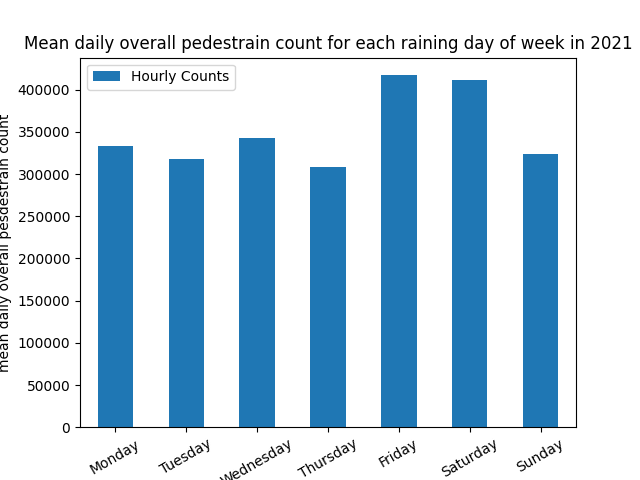
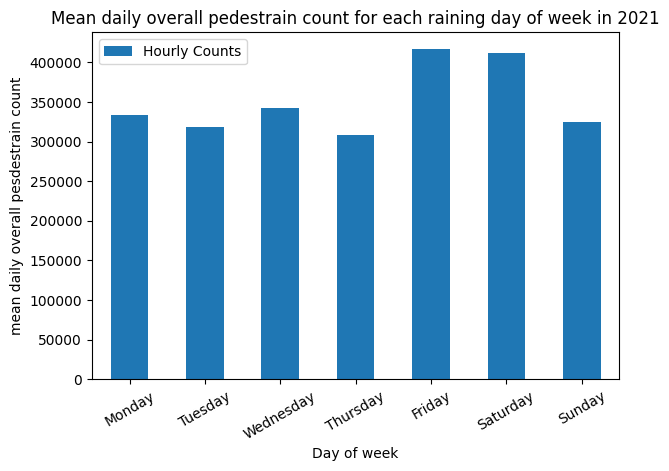
Edit graph output

diff --git a/solution.py b/solution.py
@@ -61,7 +61,7 @@ def pedestrianStats(dataframe, year, hours):
         hourly_df = getCountHourly(dataframe, year, time)
         result = summaryHourlyCount(hourly_df, time)
         new_df = pd.concat([new_df, result], ignore_index=True)
-        
+
 
     return tabulate(new_df, headers='keys', tablefmt='psql')
 
@@ -74,9 +74,13 @@ def pedestrianScatter(df, year1, year2, x_axis):
     daily_overall_2022 = pd.DataFrame(df[df.Year == year2].groupby(df.Date_Time.dt.strftime('%y-%m-%d')).agg({'Hourly_Counts':'sum',x_axis:'mean'}))  
 
     daily_overall_2021.plot.scatter(x = x_axis, y = "Hourly_Counts", title = x_axis+" vs pedestrian in "+str(year1))
+    plt.tight_layout()
+    bbox_inches = 'tight'
     plt.savefig(str(year1)+'_scatter_plot_'+x_axis[:20]+'.png')
 
     daily_overall_2022.plot.scatter(x = x_axis, y = "Hourly_Counts", title = x_axis+" vs pedestrian in "+str(year2))
+    plt.tight_layout()
+    bbox_inches = 'tight'
     plt.savefig(str(year2)+'_scatter_plot_'+x_axis[:20]+'.png')
 
 
@@ -100,7 +104,7 @@ def pedestrianHist(df, year1, year2):
 # general function of question 6
 def sensorHist(df, year, start_no, end_no):
     new_df= pd.DataFrame(pd.DataFrame(df[(df.Year == year) & (df.Sensor_ID.isin(range(start_no, end_no+1)))].groupby([df.Sensor_ID, df.Date_Time.dt.strftime('%y-%m-%d')]).agg({'Hourly_Counts':'sum'}))).groupby('Sensor_ID').mean()
-    title = "Mean daily overall pedestrain count for each day of week in "+str(year)
+    title = "Mean daily overall pedestrain count for sensor 1-20 in "+str(year)
     file =  str(year)+"_busy_sensor.png"
     barWithTitle(new_df, title, "sensor ID", "mean daily overall pesdestrain count", file)
 

diff --git a/graphplot.py b/graphplot.py
@@ -7,4 +7,5 @@ def barWithTitle(df, title, x, y, fname):
     plt.title(title)
     plt.xlabel(x)
     plt.ylabel(y)
-    plt.savefig(fname)
+    plt.tight_layout()
+    plt.savefig(fname, bbox_inches='tight')
